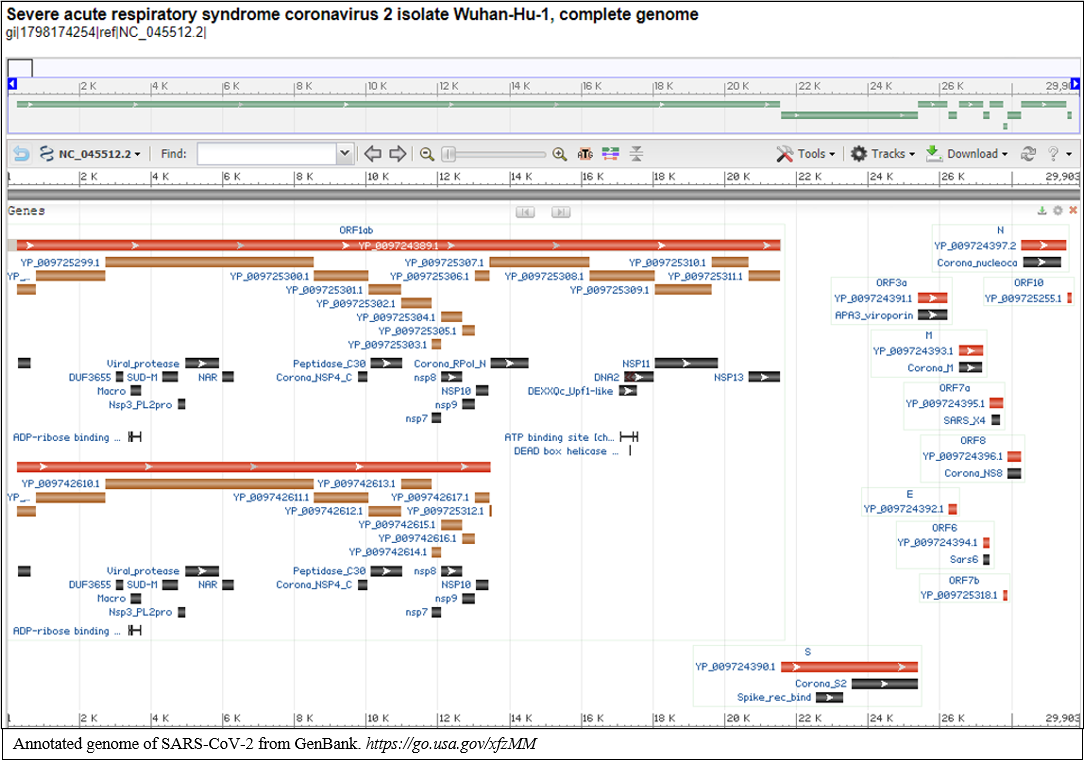
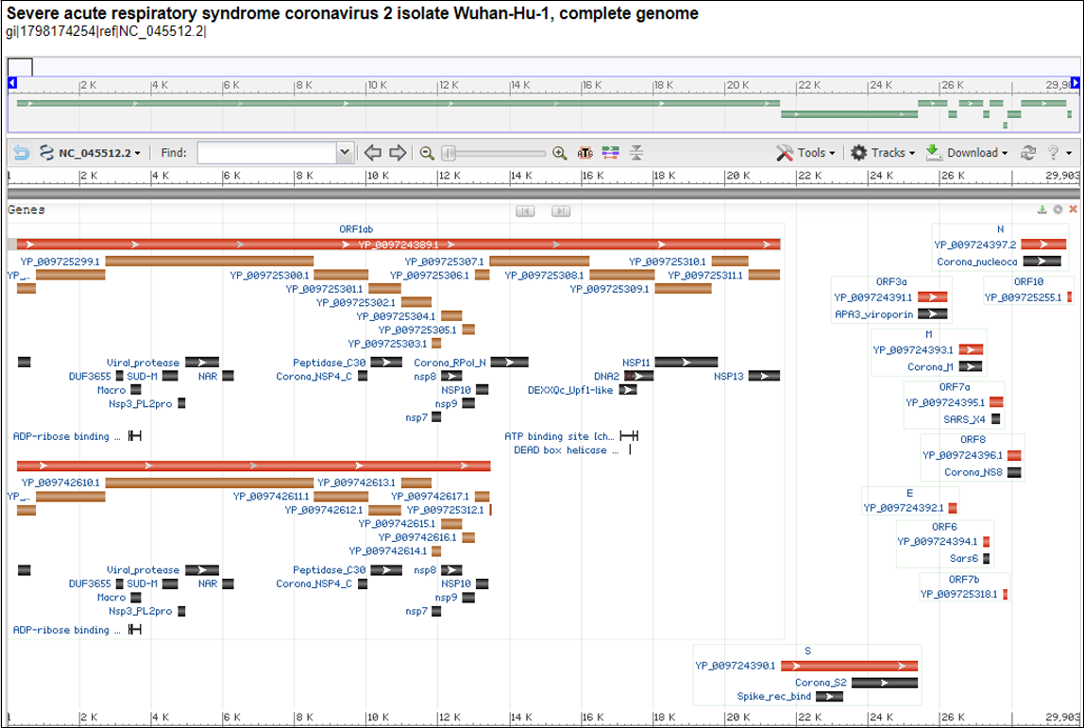
enough for today

diff --git a/_pages/coronavirus/structure_intro.md b/_pages/coronavirus/structure_intro.md
@@ -69,18 +69,21 @@ Before we set aside structure prediction, let’s consider the human proteome (i
 
 Another issue with laboratory methods of structure determination is that they require our ability to sample the actual physical proteins. For example, to produce bacterial proteins, we need to culture bacteria, and yet microbiologists have estimated that less than 2% of bacteria can be cultured in the lab [^1].
 
-What, then, can we do? Fortunately, although identifying protein structure is difficult, researchers have spent decades cataloging the genomes (i.e., the sum total of DNA in an organism's nucleus) of thousands of species. Because of the central dogma of molecular biology, we know that much of this DNA winds up being translated into protein. As a result, biologists know the *sequence* of amino acids making up many proteins. Also, recall from the start of this lesson that even if a protein is unfolded into a polypetide, then it always folds back into essentially the same three-dimensional shape.
+What, then, can we do? Fortunately, although identifying protein structure is difficult, researchers have spent decades cataloging the genomes (i.e., the sum total of DNA in an organism's nucleus) of thousands of species. Because of the central dogma of molecular biology, we know that much of this DNA winds up being translated into protein. As a result, biologists know the *sequence* of amino acids making up many proteins.
 
-This leads us to an idea: given a sequence of amino acids, can we predict the final 3-D structure of this polypeptide? In other words, can we reverse engineer the magic algorithm that nature uses for protein folding?
+The first whole genome sequence of SARS-CoV-2, isolate *Wuhan-Hu-1*, was released on 10 January 2020 by Wu, F. et. al., and is available in GenBank along with an annotation of the genome[^2][^3], shown in the figure below. Upon sequence comparison, SARS-CoV-2 was found to be related to several coronaviruses isolated from bats and distantly related to SARS-CoV-1, the viral strain that caused the 2003 SARS outbreak. In fact, SARS-CoV-2 has a sequence identity of around 96% with bat coronavirus RaTG13, leading us to the hypothesis that the virus originated from bats, which is further supported by the fact that bats are a natural reservoir of SARS-related coronaviruses.
 
-Unfortunately, predicting protein structure from an amino acid sequence is a fundamentally difficult problem.
+![image-center](../assets/images/SARSCoV2Annotation.png){: .align-center}
+An annotated genome of SARS-CoV-2. Accessed from GenBank: [https://go.usa.gov/xfzMM](https://go.usa.gov/xfzMM).
+{: style="font-size: medium;"}
+
+Recall from the start of this lesson that even if a protein is unfolded into a polypetide, then it always folds back into essentially the same three-dimensional shape. This leads us to an idea: given the sequence of amino acids corresponding to the SARS-CoV-2 spike protein, can we predict the final 3-D structure of this protein? In other words, can we reverse engineer the magic algorithm that nature uses for protein folding?
+
+Unfortunately, as will see in the next section, predicting protein structure from an amino acid sequence is a problem of fundamental difficulty.
 
 ## What makes protein structure prediction so difficult?
 
-The first whole genome sequence of SARS-CoV-2, isolate *Wuhan-Hu-1*, was released on 10 January 2020 by Wu, F. et. al., and is available in GenBank along with an annotation of the genome[^2][^3]. Upon sequence comparison, SARS-CoV-2 was found to be related to several coronaviruses isolated from bats and distantly related to SARS-CoV-1, the viral strain that caused the 2003 SARS outbreak. In fact, SARS-CoV-2 has a sequence identity of around 96% with bat coronavirus RaTG13, leading us to the hypothesis that the virus originated from bats, which is further supported by the fact that bats are a natural reservoir of SARS-related coronaviruses.
-
-![image-center](../assets/images/SARSCoV2Annotation.png){: .align-center}
-{: style="font-size: medium;"}
+**START HERE -- RE-ORGANIZE as "Why is this hard?" and motivate hemoglobin**
 
 Small perturbations in the primary structure of a protein can drastically change the protein's shape and even render it useless. For this reason, we might be led to think that we could infer the amino acid sequence of a protein from its structure. But this is far from the truth. Because different amino acids can have similar chemical properties, some mutations will hardly change the shape of the protein at all; furthermore, two very different amino acid sequences can fold into proteins with similar shapes and identical function.
 
@@ -89,8 +92,6 @@ For example, the following figure compares both the sequences and structures of 
 ![image-center](../assets/images/SequenceStructureExample.png){: .align-center}
 (Top) An amino acid sequence comparison of the first 40 (out of 140) amino acids of hemoglobin subunit alpha for three species: human, mako shark, and emu. A column is colored blue if all three species have the same amino acid, white if two species have the same amino acid, and red if all amino acids are different. Sequence identity calculates the number of positions in two amino acid sequences that share the same character. (Bottom) Side by side comparisons of the 3-D structures of the three proteins. The final figure on the right superimposes the first three structures to highlight their similarities.
 {: style="font-size: medium;"}
-
-
 
 We can compare our algorithm for structure prediction against known 3-D structures (SARS1 before the SARS2 3-D structure was known experimentally, and both viruses afterward). Researchers would do this to see how good our algorithm is at reproducing a known structure as a proof of concept for the approach when we don’t have funds for X-ray crystallography but want a reliable representation of a newly sequenced protein’s structure.
 
